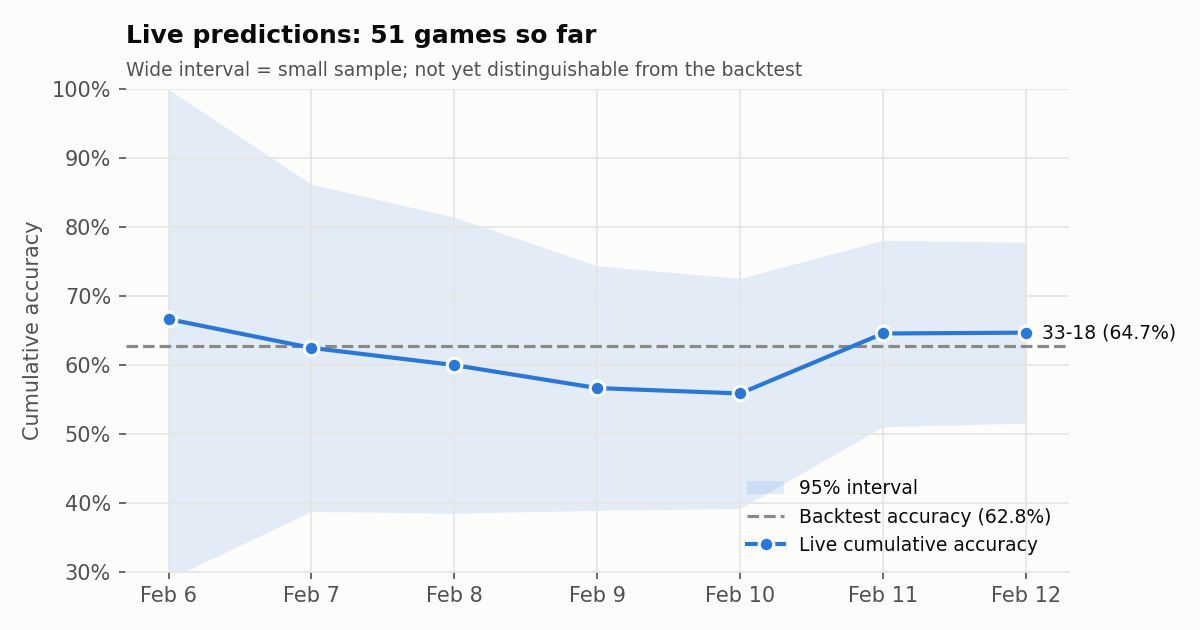
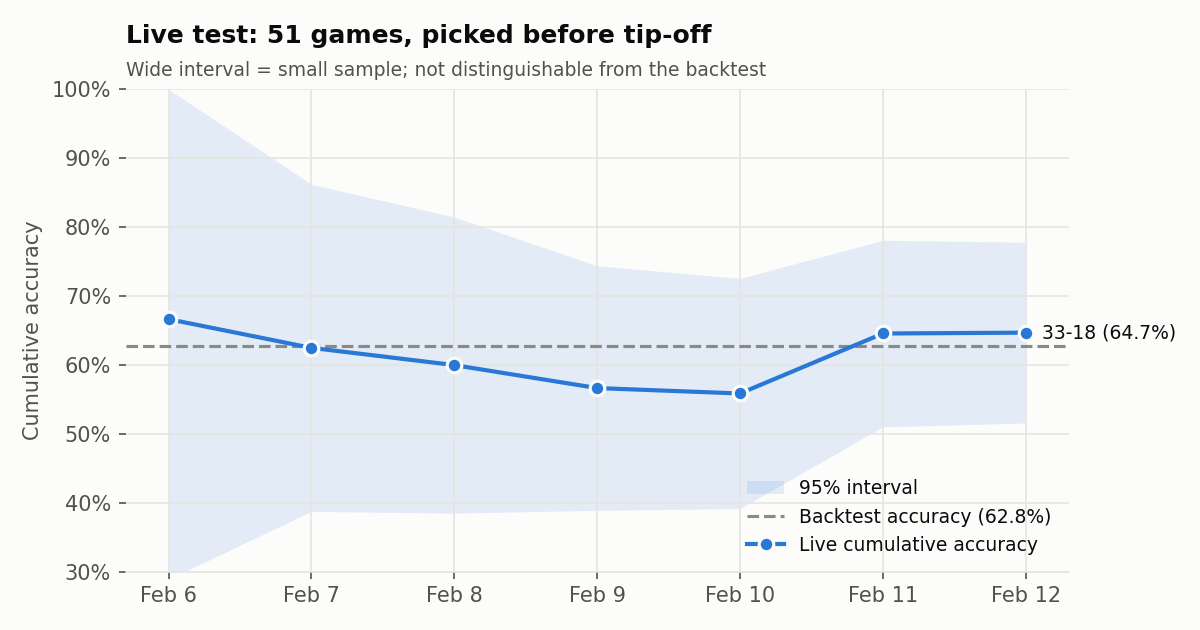
Remove daily runner; present live results as a one-week test

Changed region(s): [[0.1542, 0.0302, 0.6783, 0.1206]]

diff --git a/src/make_figures.py b/src/make_figures.py
@@ -84,7 +84,7 @@ def live_accuracy() -> None:
     _pct(ax, 0.1)
     ax.xaxis.set_major_formatter(matplotlib.dates.DateFormatter("%b %-d"))
     ax.set_ylabel("Cumulative accuracy")
-    _titles(ax, f"Live predictions: {n} games so far", "Wide interval = small sample; not yet distinguishable from the backtest")
+    _titles(ax, f"Live test: {n} games, picked before tip-off", "Wide interval = small sample; not distinguishable from the backtest")
     ax.legend(loc="lower right", frameon=False, fontsize=9)
     fig.tight_layout()
     fig.savefig(FIGURES_DIR / "live_accuracy.png", dpi=150)

diff --git a/README.md b/README.md
@@ -1,6 +1,6 @@
 # NBA Game Predictor
 
-A logistic regression model that predicts NBA game winners from each team's last 10 games. It runs as a daily pipeline that pulls live data from the NBA stats API, retrains, publishes its picks before tip-off, and scores them against the real results.
+A logistic regression model that predicts NBA game winners from each team's last 10 games. It includes a daily pipeline that pulls live data from the NBA stats API, retrains, predicts the day's games, and scores the picks against real results.
 
 ## Results
 
@@ -9,7 +9,7 @@ A logistic regression model that predicts NBA game winners from each team's last
 | **Season-by-season backtest** (2017-18 to 2025-26) | 10,739 | **62.8%** | 56.0% |
 | 80/20 time-ordered holdout (Mar 2024 to Apr 2026) | 2,631 | 64.2% | 54.7% |
 | 5-fold `TimeSeriesSplit` | 13,152 | 62.7% (mean) | – |
-| Live picks, made before tip-off (Feb 6–12, 2026) | 51 | 64.7% (33–18) | – |
+| Live test: picks made before tip-off (Feb 6–12, 2026) | 51 | 64.7% (33–18) | – |
 
 In the backtest, each season is predicted by a model trained only on the seasons before it. The model beats the home-team baseline in every one of the 9 seasons, by 2.4 to 9.8 points.
 
@@ -27,15 +27,15 @@ About a third of games are essentially coin flips for this model. The daily outp
 
 All backtest numbers come from `python -m src.backtest` and are saved in [`results/backtest_metrics.json`](results/backtest_metrics.json). They can move by a few tenths of a point between runs because the NBA occasionally revises past box scores.
 
-## Live track record
+## Live test
 
-Every prediction is appended to [`results/predictions.csv`](results/predictions.csv) with a UTC timestamp before games start, then committed and pushed. The next day's run fills in the winner. Picks are never edited after they're saved, and GitHub's server-side push times (in the repo's Activity view) show when each day's picks went up.
+I ran the pipeline daily for a week in February 2026, before games started each day, and scored the picks against the real results. Each prediction is one row in [`results/predictions.csv`](results/predictions.csv) with the winner filled in. Running `python -m src.run_daily` appends new picks with a UTC timestamp, skips games that have already tipped off, and never edits a pick once it's saved.
 
 ![Live accuracy](figures/live_accuracy.png)
 
-The first 51 live games (Feb 2026) went 33–18. With so few games the 95% interval is roughly 52–78%, so this confirms the pipeline works end to end, not that the model beats its backtest. Tracking resumes with the 2026-27 season.
+The 51 live games went 33–18. With so few games the 95% interval is roughly 52–78%, so this confirms the pipeline works end to end, not that the model beats its backtest.
 
-Two things to know about those first rows (`model_version = v1`):
+Two things to know about these rows (`model_version = v1`):
 - They were made by the original script, which didn't record timestamps, so `predicted_at` is blank. They're converted from the untouched JSON files in [`results/archive/`](results/archive/) by [`scripts/convert_legacy_history.py`](scripts/convert_legacy_history.py).
 - The original script had a bug: live features left out each team's most recent game, so they were one game out of date. `v2` fixes this. The backtest was never affected; the bug was only in the live-prediction path.
 
@@ -68,7 +68,7 @@ The selection rule itself (≥ 60% confidence) is unchanged, so new bets are com
 nba_api game logs ──► features (rolling 10-game averages) ──► logistic regression ──► today's picks
      (2015-16 →)            one row per game: home & away           retrained daily         │
                                                                                             ▼
-                        results/predictions.csv ◄── next day: fill in winners ◄── daily commit + push
+                        results/predictions.csv ◄── next day: fill in winners
 ```
 
 **Data.** Team box scores for every regular-season game since 2015-16, from the NBA stats API via [`nba_api`](https://github.com/swar/nba_api) (`TeamGameLogs`), plus the day's schedule (`ScoreboardV2`). Completed seasons are cached; the current season is re-downloaded once a day. The exploration notebook also uses the [Kaggle NBA games dataset](https://www.kaggle.com/datasets/nathanlauga/nba-games) (2003–2022). No raw data is committed; see [`data/README.md`](data/README.md).
@@ -131,8 +131,6 @@ python -m src.betting               # interactive: log bets on today's picks / s
 
 The first run downloads about 11 seasons of game logs (roughly a minute). No API keys are needed.
 
-**Automation.** [`scripts/run_and_push.sh`](scripts/run_and_push.sh) runs the pipeline, regenerates the charts, and commits and pushes the results. It's scheduled locally for about 11am ET. I first tried GitHub Actions ([`.github/workflows/daily.yml`](.github/workflows/daily.yml)), but stats.nba.com times out requests from GitHub's cloud runners, a known issue with `nba_api`. So the workflow is kept for manual runs only, until the block lifts.
-
 ## Repo structure
 
 ```
@@ -153,9 +151,8 @@ The first run downloads about 11 seasons of game logs (roughly a minute). No API
 │   ├── backtest_metrics.json, backtest_by_season.csv
 │   └── archive/           # original JSON history, unmodified
 ├── figures/
-├── scripts/               # run_and_push.sh (daily job), convert_legacy_history.py
-├── data/                  # local cache only (not committed)
-└── .github/workflows/daily.yml   # manual-only (see Automation)
+├── scripts/convert_legacy_history.py
+└── data/                  # local cache only (not committed)
 ```
 
 ## License
